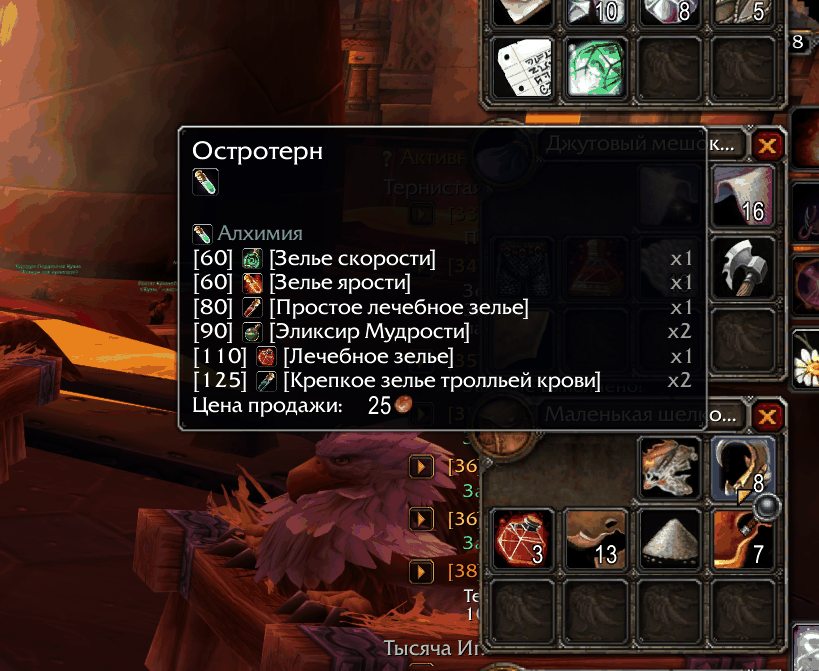
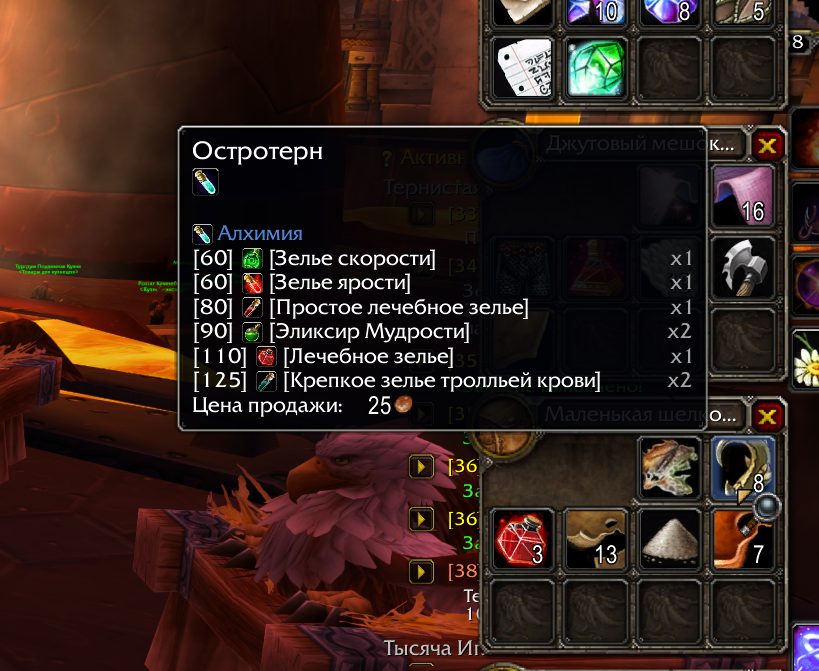
Use the screenshots without recompressing them

diff --git a/README.ru.md b/README.ru.md
@@ -13,7 +13,7 @@ Classic.**
 [![WoW Classic Era](https://img.shields.io/badge/WoW-Classic%20Era%201.15-c79c6e)](#совместимость)
 [![Лицензия: GPL v3](https://img.shields.io/badge/Лицензия-GPLv3-blue.svg)](LICENSE)
 
-![В чате предлагают скрафтить кожаный доспех: Alt+щелчок по ссылке, и в окне видно, что нужно для крафта; при наведении на масло тьмы видно, как его сделать](docs/images/chat-crafted-item.jpg)
+![В чате предлагают скрафтить кожаный доспех: Alt+щелчок по ссылке, и в окне видно, что нужно для крафта; при наведении на масло тьмы видно, как его сделать](docs/images/chat-crafted-item.png)
 
 *Вам предлагают скрафтить доспех: Alt+щелчок по ссылке в чате, и видны все реагенты, а наведение на незнакомый
 показывает, откуда он берётся.*

diff --git a/README.md b/README.md
@@ -13,7 +13,7 @@ gather before you ask a crafter.
 [![WoW Classic Era](https://img.shields.io/badge/WoW-Classic%20Era%201.15-c79c6e)](#compatibility)
 [![License: GPL v3](https://img.shields.io/badge/License-GPLv3-blue.svg)](LICENSE)
 
-![Someone links a leather armour in chat: Alt-click it, and the window shows what it takes; hovering Shadow Oil shows how that is made](docs/images/chat-crafted-item.jpg)
+![Someone links a leather armour in chat: Alt-click it, and the window shows what it takes; hovering Shadow Oil shows how that is made](docs/images/chat-crafted-item.png)
 
 *Someone offers to craft a piece of armour: Alt-click its link in chat, see the reagents, and hover the one you don't
 know where to get. Screenshots are from a Russian client.*
